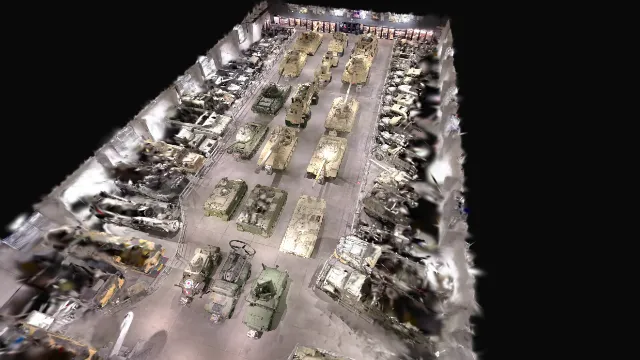
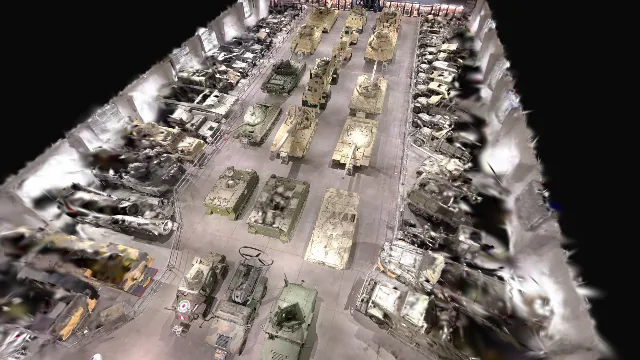
Re-snap stop 1 overview; dev saves can't overwrite newer thumbnails
- Stop 1: new aerial overview pose and thumbnail (Paolo)
- A reloaded dev page restored an old browser backup and its next save
  rewrote every thumbnail with stale images. Now saves write
  stops.json plus only re-captured or renumbered thumbnails, the
  backup is cleared after each successful save, and its storage key
  is bumped so old backups are ignored
- Restored the dark-background thumbnails for stops 2-10

diff --git a/src/devmode.ts b/src/devmode.ts
@@ -30,8 +30,10 @@ interface DevContext {
   nav: Nav;
   thumbs: ThumbStore;
   ui: HTMLElement;
-  /** Shown once in the status line, e.g. "Restored local edits from …". */
+  /** Shown once in the status line, e.g. "Restored unsaved edits from …". */
   initialStatus?: string;
+  /** True when the stops came from this browser's backup of unsaved edits, not the project. */
+  restored?: boolean;
 }
 
 const round = (v: number, d = 3) => Math.round(v * 10 ** d) / 10 ** d;
@@ -126,6 +128,14 @@ export function initDevMode(ctx: DevContext): void {
       text ?? (state === 'saved' ? '✓ Saved to project' : state === 'saving' ? 'Saving…' : '● Unsaved changes');
   };
 
+  // Which thumbnails need writing. Saves write stops.json plus only the thumbnails that were
+  // re-captured or renumbered since the last save, so a save can never overwrite good images on
+  // disk with older ones it happens to hold in memory.
+  const onDisk = new Map<Stop, string>(); // the id under which a stop's image is on disk
+  const changedThumbs = new Set<Stop>(); // captured since the last save
+  if (!ctx.restored) tour.stops.forEach((st) => onDisk.set(st, st.id));
+  const needsWrite = (st: Stop) => changedThumbs.has(st) || onDisk.get(st) !== st.id;
+
   let localTimer = 0;
   let projectTimer = 0;
   const autosave = () => {
@@ -151,11 +161,18 @@ export function initDevMode(ctx: DevContext): void {
     busy = true;
     try {
       showSaved('saving');
-      const { files, written } = await collectFiles();
-      if (await saveViaDevServer(files)) {
-        // From now on, each stop's thumbnail is exactly the image just written, so later saves
-        // never re-read a file that this save may have renamed.
-        written.forEach(([stop, blob]) => thumbs.set(stop, blob));
+      const { files, written } = await collectFiles(needsWrite);
+      if (await saveViaDevServer(files, tour.stops.map((st) => `${st.id}.webp`))) {
+        // Each written stop's thumbnail is now exactly the image just written (so later saves
+        // never re-read a file this save renamed), and it's on disk under its current id.
+        for (const [st, blob] of written) {
+          thumbs.set(st, blob);
+          onDisk.set(st, st.id);
+          changedThumbs.delete(st);
+        }
+        // Everything is in the project now; the browser backup only ever holds unsaved changes.
+        clearTimeout(localTimer);
+        clearLocalEdits();
         dirty = false;
         showSaved('saved');
         return true;
@@ -236,6 +253,7 @@ export function initDevMode(ctx: DevContext): void {
   const capture = async (stop: Stop) => {
     await viewer.waitForDetail();
     thumbs.set(stop, await viewer.captureImage());
+    changedThumbs.add(stop);
   };
 
   const snap = async () => {
@@ -358,14 +376,16 @@ export function initDevMode(ctx: DevContext): void {
   };
 
   // ---------------------------------------------------------------- export
-  const collectFiles = async () => {
-    // Read every thumbnail before writing anything: renumbered stops may overwrite each other.
-    const blobs = await Promise.all(tour.stops.map((s) => thumbs.blob(s)));
+  /** stops.json plus the thumbnails `include` selects (default: all, for folder/zip export). */
+  const collectFiles = async (include: (s: Stop) => boolean = () => true) => {
     const inOrder = tour.stops.every((s, i) => s.id === `stop-${i + 1}` && s.thumbnail === thumbPath(s.id));
     if (!inOrder) tour.stopsChanged();
+    const chosen = tour.stops.filter(include);
+    // Read every thumbnail before writing anything: renumbered stops may overwrite each other.
+    const blobs = await Promise.all(chosen.map((s) => thumbs.blob(s)));
     const files = [{ path: 'stops.json', blob: new Blob([serializeTour(tour.data)], { type: 'application/json' }) }];
     const written: [Stop, Blob][] = [];
-    tour.stops.forEach((s, i) => {
+    chosen.forEach((s, i) => {
       const b = blobs[i];
       if (!b) return;
       files.push({ path: thumbPath(s.id), blob: b });
@@ -477,15 +497,14 @@ export function initDevMode(ctx: DevContext): void {
 // -------------------------------------------------------------------- File System Access
 
 /** Writes via the Vite dev server's /__dev endpoints; false if they aren't there. */
-async function saveViaDevServer(files: { path: string; blob: Blob }[]): Promise<boolean> {
+async function saveViaDevServer(files: { path: string; blob: Blob }[], keepThumbs: string[]): Promise<boolean> {
   const endpoint = (p: string) => `/__dev/${p}`;
   try {
     for (const f of files) {
       const res = await fetch(`${endpoint('save')}?path=${encodeURIComponent(f.path)}`, { method: 'POST', body: f.blob });
       if (!res.ok) return false;
     }
-    const keep = files.filter((f) => f.path.startsWith('thumbs/')).map((f) => f.path.slice('thumbs/'.length));
-    await fetch(endpoint('prune-thumbs'), { method: 'POST', body: JSON.stringify(keep) });
+    await fetch(endpoint('prune-thumbs'), { method: 'POST', body: JSON.stringify(keepThumbs) });
     return true;
   } catch {
     return false;

diff --git a/src/thumbs.ts b/src/thumbs.ts
@@ -93,7 +93,8 @@ function blobToDataUrl(blob: Blob): Promise<string> {
 
 // --- Local edits (dev mode autosave) ---------------------------------------------------
 
-const STORAGE_KEY = 'tmvm-tour-dev-edits';
+// v2: backups now only ever hold unsaved changes (cleared after each save into the project).
+const STORAGE_KEY = 'tmvm-tour-dev-edits-v2';
 
 export interface LocalEdits {
   savedAt: number;

diff --git a/src/main.ts b/src/main.ts
@@ -62,7 +62,8 @@ async function start() {
         nav,
         thumbs,
         ui,
-        initialStatus: edits ? `Restored local edits from ${when}.` : undefined,
+        initialStatus: edits ? `Restored unsaved edits from ${when}.` : undefined,
+        restored: !!edits,
       });
     }
 
